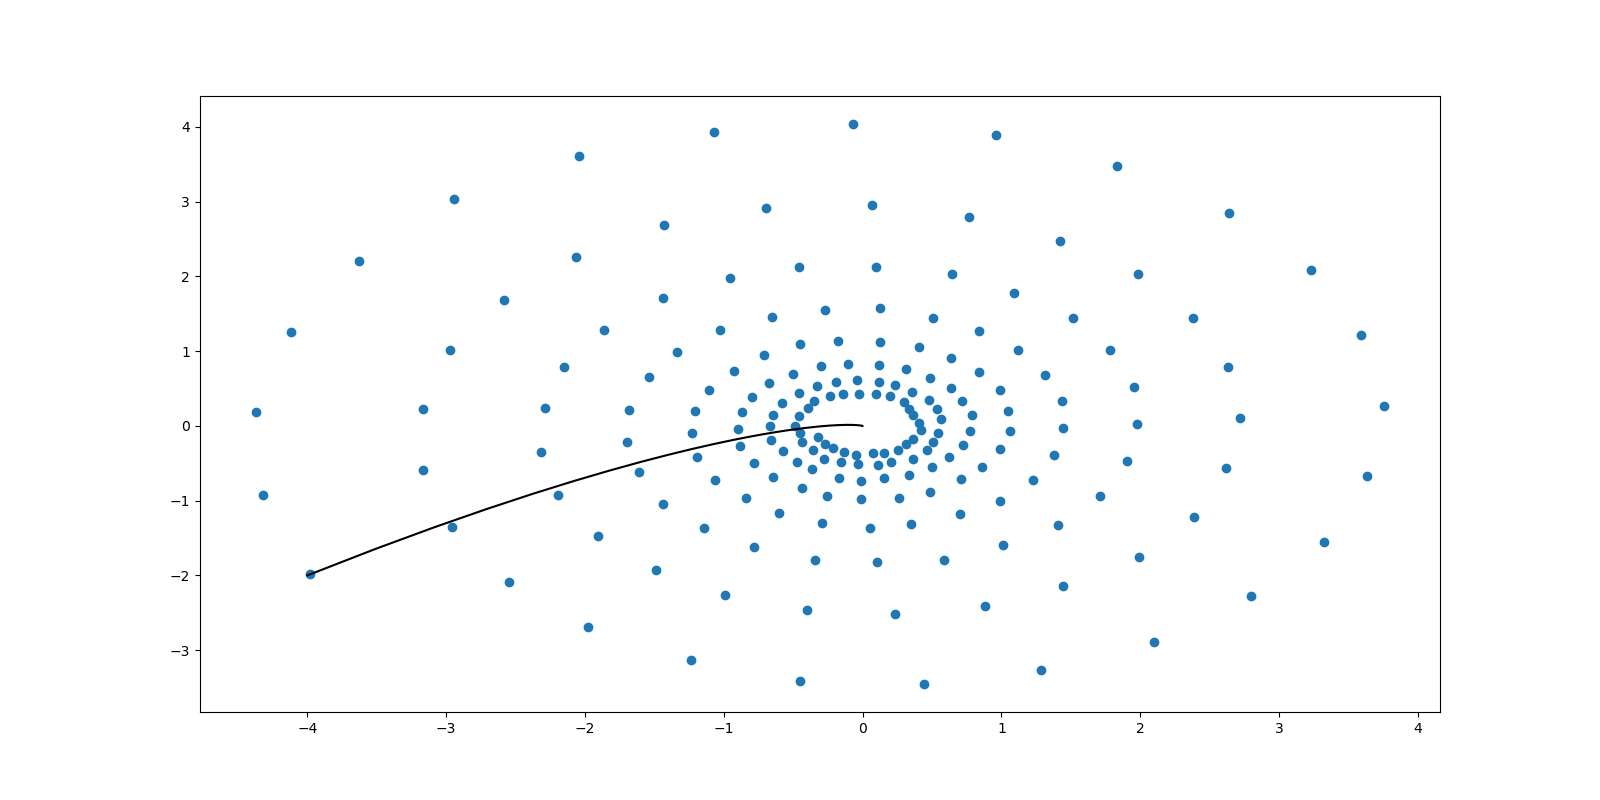
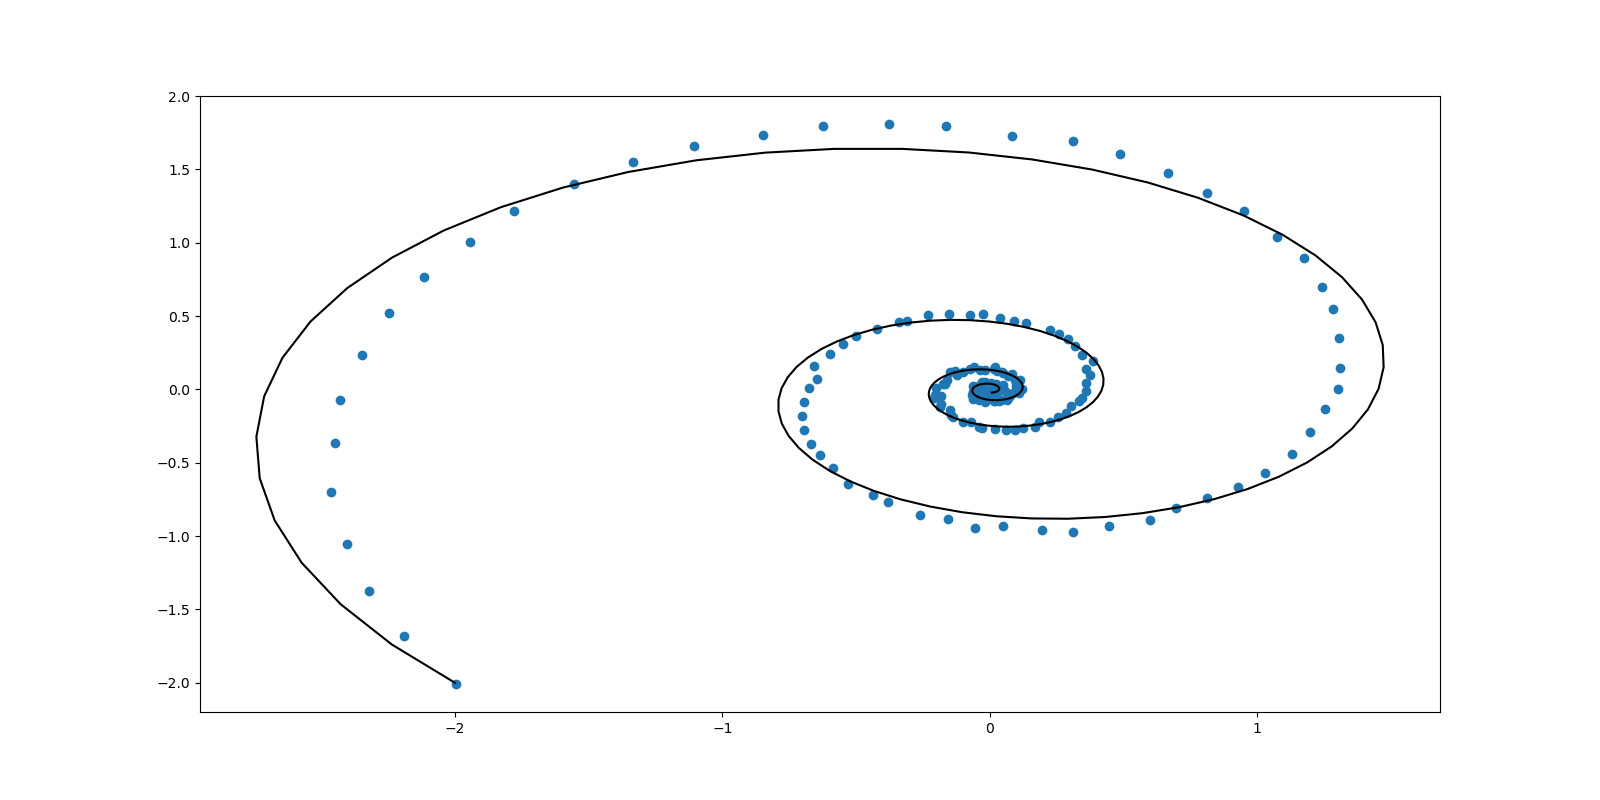
finish

diff --git a/project_code/NeuralODE_experiments.py b/project_code/NeuralODE_experiments.py
@@ -64,8 +64,77 @@ def experiment2(n_epoch, batch_size, plot_freq, file_name):
     # First set the ode solver to the predetermined ODESolver object
     ode_solver = ODESolver()                                # ODE Solver
     # Spiral parameters
-    spiral_matrix = torch.Tensor([[-0.1, 2.], [-2., -0.1]]) # Matrix that describes the generated spiral
-    z_init = Variable(torch.Tensor([[-4.0, -2.0]]))         # Initial starting point for the spiral
+    spiral_matrix = torch.Tensor([[-0.2, 1.], [-1., -0.2]]) # Matrix that describes the generated spiral
+    z_init = Variable(torch.Tensor([[-2.0, -2.0]]))         # Initial starting point for the spiral
+
+    # Linear ODE function to structure (will be used in our neural net) 
+    class LinearODEF(ODEFunction):
+        def __init__(self, W):
+            super(LinearODEF, self).__init__()
+            self.lin = nn.Linear(2, 2, bias = False)
+            self.lin.weight = nn.Parameter(W)
+
+        def forward(self, x, t):
+            return self.lin(x)
+
+    # True function for generating the data (spiral)
+    class SpiralFunction(LinearODEF):
+        def __init__(self):
+            super(SpiralFunction, self).__init__(spiral_matrix)
+            
+    # Random initial guess for function (random weights, correct structure)
+    class TrainLinearODEF(LinearODEF):
+        def __init__(self):
+            super(TrainLinearODEF, self).__init__(torch.randn(2, 2)/2.)
+
+    # Define the Neural ODEs with the predefined function structure
+    # One for creating true data
+    # One for training to find correct parameters
+    ode_true = NeuralODE(SpiralFunction())
+    ode_trained = NeuralODE(TrainLinearODEF())
+    
+    # Create data
+    t_max = 8 * np.pi                               # Max time for generating the path
+    n_points = 200                                  # Number of points generated in the path
+
+    # Index and times numpy data
+    index_np = np.arange(0, n_points, 1, dtype = np.int64)
+    index_np = np.hstack([index_np[:, None]])
+    times_np = np.linspace(0, t_max, num = n_points)
+    times_np = np.hstack([times_np[:, None]])
+    
+    # Then tensor times data, and generated observation data
+    times = torch.from_numpy(times_np[:, :, None]).to(z_init)
+    observations = ode_true(z_init, times, save_all = True, ode_solver = ode_solver).detach()
+    observations = observations + torch.randn_like(observations) * 0.01 # Add some randomness to the data
+
+    # Train Neural ODE
+    # Use Adam optimizer
+    optimizer = torch.optim.Adam(ode_trained.parameters(), lr = 0.01)
+    # Run the training for specified number of epochs
+    for i in range(n_epoch):
+        # Get the batched data
+        observation_batch, time_batch = create_batch(observations, times_np, times, t_max, index_np, batch_size)
+        # Predict and update model
+        pred_data = ode_trained(observation_batch[0], time_batch, save_all = True, ode_solver = ode_solver)
+        loss = F.mse_loss(pred_data, observation_batch.detach())
+        optimizer.zero_grad()
+        loss.backward(retain_graph = True) # Uses Adjoint method
+        optimizer.step()
+
+        # Plot ever so often
+        if i % plot_freq == 0:
+            full_prediction = ode_trained(z_init, times, save_all = True, ode_solver = ode_solver)
+            plot_ODE_sol(observations = [observations], times = [times], pred_path = [full_prediction], figname = f'./pictures/{file_name}_{i}.png')
+            print(f'Epoch: [{i}/{n_epoch}], loss: {loss}')
+    
+# Real-world Neural ODE application to Netwon's law of cooling
+def experiment3(n_epoch, batch_size, plot_freq, file_name):
+    # First set the ode solver to the predetermined ODESolver object
+    ode_solver = ODESolver()                                # ODE Solver
+    # Randomly initialized law of cooling parameters
+    spiral_matrix = torch.Tensor([[-0.2, 1.], [-1., -0.2]]) # Matrix that describes the generated spiral
+    z_init = Variable(torch.Tensor([[-2.0, -2.0]]))         # Initial starting point for the spiral
 
     # Linear ODE function to structure (will be used in our neural net) 
     class LinearODEF(ODEFunction):

diff --git a/project_code/NeuralODE_main.py b/project_code/NeuralODE_main.py
@@ -38,4 +38,7 @@ if __name__ == '__main__':
     N_EPOCH = 1000
     BATCH_SIZE = 32
     plot_freq = 10
-    experiment2(n_epoch = N_EPOCH, batch_size = BATCH_SIZE, plot_freq = plot_freq, file_name = "example_spiral/spiral_fit")
+    # experiment2(n_epoch = N_EPOCH, batch_size = BATCH_SIZE, plot_freq = plot_freq, file_name = "example_spiral/spiral_fit") # Uncomment to run fitting to a spiral
+    
+    # Experient 3
+    
